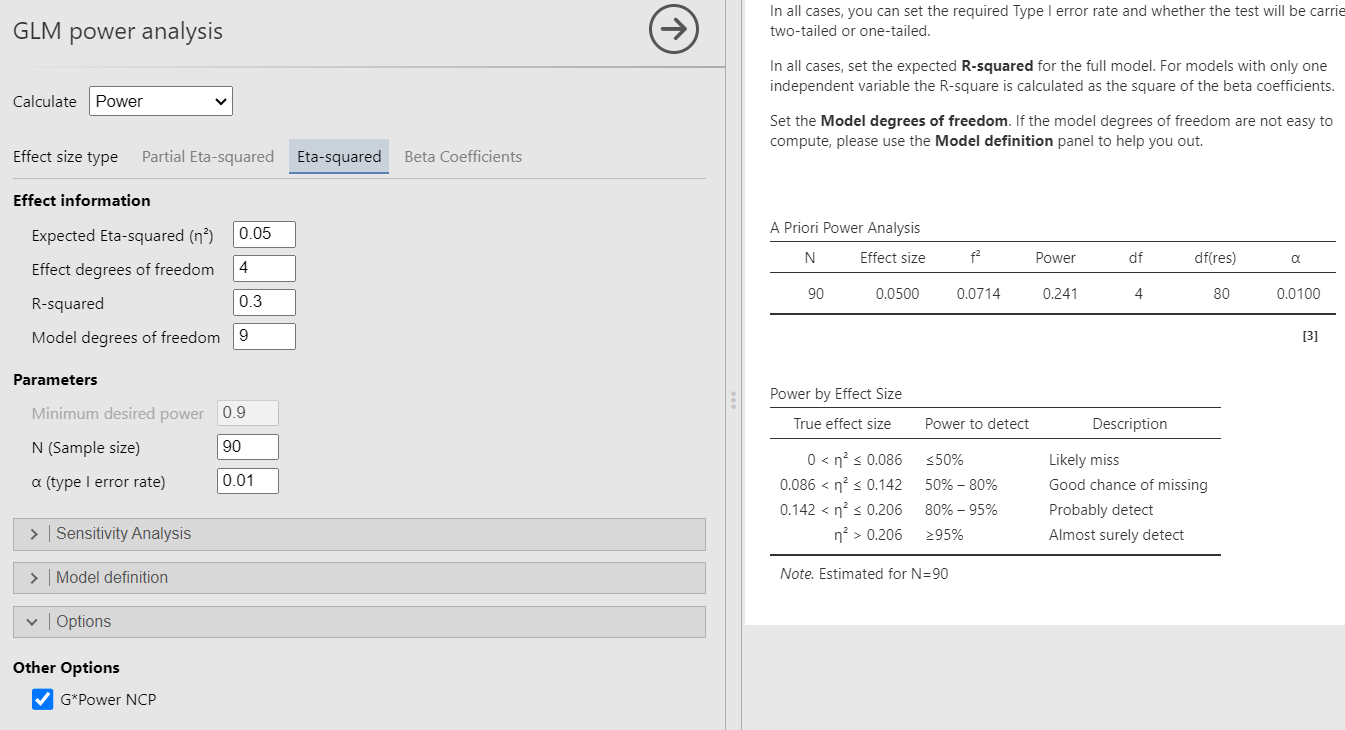
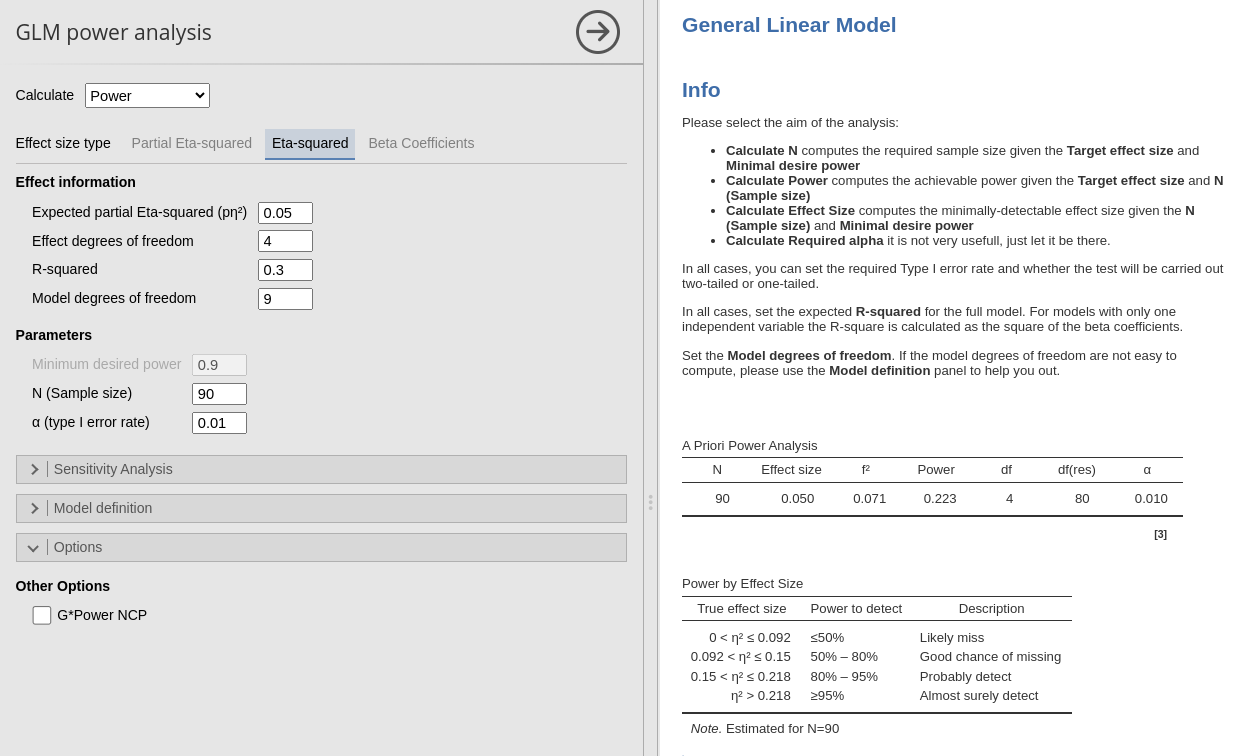
updates

diff --git a/docs/rosetta_glm_n.html b/docs/rosetta_glm_n.html
@@ -376,20 +376,23 @@ package</a> and <a
 href="https://www.psychologie.hhu.de/arbeitsgruppen/allgemeine-psychologie-und-arbeitspsychologie/gpower">G*Power</a>.</p>
 <p>We use a few examples from <a
 href="https://www.psychologie.hhu.de/arbeitsgruppen/allgemeine-psychologie-und-arbeitspsychologie/gpower">G*Power
-manual</a>, then we test some other design and analysis. In G<em>Power
+manual</a>, then we test some other design and analysis. In GPower
 manual the aim of the analysis is to find the post hoc power, here we
-look for the minimum sample size given the power obtained in the
-G</em>Power manual. So, this is not a tutorial on how to conduct a power
-analysis (the required power is sometimes a non-sense), is a testing
-exercise to evaluate the correctness of the results.</p>
+look for the minimum sample size given the power obtained in the GPower
+manual. So, this is not a tutorial on how to conduct a power analysis
+(the required power is sometimes a non-sense), is a testing exercise to
+evaluate the correctness of the results.</p>
 </div>
 <div id="multiple-regression" class="section level1">
 <h1>Multiple regression</h1>
 <p><i> Multiple Regression - omnibus (deviation of R 2 from zero), fixed
 model, p. 33 </i></p>
-<p>Here we estimate the post-hoc power for the F-test associated to the
-<span class="math inline">\(R^2\)</span> of a model with 5 predictors.
-Five predictors means that the model degrees of freedom are 5. Because
+<p>T he manual estimates the post-hoc power for the F-test associated to
+the <span class="math inline">\(R^2\)</span> of a model with 5
+predictors. The resulting power is <span
+class="math inline">\(1-\beta=.6735\)</span> based on Five predictors
+me95 cases. So, starting from the given power, we should obtain a
+required sample size of 95. The model degrees of freedom are 5. Because
 the test is on the whole model <span class="math inline">\(R^2\)</span>,
 also the the effect DF are 5. The <span
 class="math inline">\(R^2\)</span> is transformed into the <span
@@ -400,10 +403,10 @@ class="math inline">\(f^2\)</span> effect size with the simple formula
 <li>Expected <span class="math inline">\(R^2\)</span> = .10</li>
 <li><span class="math inline">\(f^2\)</span> = 0.1111</li>
 <li>power = .6735</li>
-<li>N = 95</li>
 <li>Effect DF = 5</li>
 <li>Model DF = 5</li>
 <li>Alpha = .05</li>
+<li>Correct results: N = 95</li>
 </ul>
 <div id="gpower" class="section level3">
 <h3>G*Power</h3>
@@ -414,9 +417,10 @@ class="math inline">\(f^2\)</span> effect size with the simple formula
 <p>In R, we can use the <code>pwr.f2.test</code> command, just plugging
 in the effect size <span class="math inline">\(f^2\)</span> and the
 effect DF <span class="math inline">\(u=5\)</span>. However, <span
-class="math inline">\(N\)</span> should be inserted as the residuals
-degrees of freedom, thus we have <span
-class="math inline">\(v=N-u-1=95-5-1=89\)</span></p>
+class="math inline">\(N\)</span> should be computed as the residuals
+degrees of freedom <span class="math inline">\(v\)</span> plus the <span
+class="math inline">\(u+1\)</span>, thus we have <span
+class="math inline">\(N=v+u+1\)</span></p>
 <pre class="r"><code>(res&lt;-pwr::pwr.f2.test(f2=.1111,u=5, power=.6735,sig.level=.05))</code></pre>
 <pre><code>## 
 ##      Multiple regression power calculation 
@@ -437,7 +441,7 @@ class="option">Partial Eta-Squared</span> or <span
 class="option">Eta-Squared</span>, because in the case of the <span
 class="math inline">\(R^2\)</span> the two effect size are identical.
 For simplicity, we use <span class="option">Partial
-Eta-Squared</span></p>
+Eta-Squared</span>.</p>
 <p><img src="rosetta/pics/glm.n.1.png" width="1368" /></p>
 <p>Had we used <span class="option">Eta-Squared</span>, we simply put
 the <span class="math inline">\(R^2\)</span> to test both in the effect
@@ -450,7 +454,7 @@ the same results.</p>
 <h1>Increase in <span class="math inline">\(R^2\)</span></h1>
 <p><i> F test: Multiple Regression - special (increase of R2), fixed
 model , p. 37 </i></p>
-<p>The first example examines a linear model (regression) with <span
+<p>The example examines a linear model (regression) with <span
 class="math inline">\(R_f^2=.30\)</span> with 9 predictors and compare
 it to a nested model with <span class="math inline">\(R_n^2=.25\)</span>
 with 5 predictors. Basically, the test is aimed at testing the variance
@@ -459,7 +463,9 @@ model. The variance explained by the 4 predictors is therefore <span
 class="math inline">\(R_f^2-R_n^2=.30-.25=.05\)</span>. This is also
 called <span class="math inline">\(\Delta R^2\)</span>, but more
 formally is a <span class="math inline">\(\eta^2\)</span> with 4 degrees
-of freedom evaluated in a model with 9 degrees of freedom.</p>
+of freedom evaluated in a model with 9 degrees of freedom. In the GPower
+manual the resulting power is .241296 based on a sample of 90 cases. So,
+we should obtain 90 as the required sample size.</p>
 <p>The <span class="math inline">\(\eta^2\)</span> is transformed into
 the <span class="math inline">\(f^2\)</span> effect size with the simple
 formula <span
@@ -474,6 +480,7 @@ class="math inline">\(f^2=(R_f^2-R_n^2)/(1-R_f^2)\)</span>.</p>
 <li>Effect DF = 4</li>
 <li>Model DF = 9</li>
 <li>Alpha = .01</li>
+<li>Correct results: N = 90</li>
 </ul>
 <div id="gpower-1" class="section level3">
 <h3>G*Power</h3>
@@ -529,7 +536,7 @@ have <span class="math inline">\(DF=2*2=4\)</span> degrees of freedom,
 and the whole model will have <span
 class="math inline">\(DF=35\)</span>, the number of groups minus one.
 Here are the parameters. The resulting sample size should be <span
-class="math inline">\(N = 90\)</span>.</p>
+class="math inline">\(N = 108\)</span>.</p>
 <ul>
 <li>Aim = Sample Size</li>
 <li><span class="math inline">\(p\eta^2\)</span> = 0.05665751</li>
@@ -538,38 +545,33 @@ class="math inline">\(N = 90\)</span>.</p>
 <li>Model DF = 35</li>
 <li>Power = .475627</li>
 <li>Alpha = .01</li>
+<li>Correct results: N = 108</li>
 </ul>
 <div id="gpower-2" class="section level3">
 <h3>G*Power</h3>
-<p>First notice that for this problem, G<em>Power offers <em>F test:
-Fixed effects ANOVA</em> routine, which requires an <span
+<p>First notice that for this problem, GPower offers <em>F test: Fixed
+effects ANOVA</em> routine, which requires an <span
 class="math inline">\(f\)</span> as the effect size . <span
 class="math inline">\(f\)</span> is simply the square root of <span
 class="math inline">\(f^2\)</span> so it can be computed from the
 partial Eta-squared as <span
-class="math inline">\(f=\sqrt{p\eta^2/(1-p\eta^2)}\)</span> . Based on
-the G</em>Power example, the resulting sample size should be N=108.</p>
+class="math inline">\(f=\sqrt{p\eta^2/(1-p\eta^2)}\)</span> .</p>
 <p>Plugging in the parameters we obtain:</p>
 <p><img src="rosetta/pics/gpower.n.glm.3.png" width="680" /></p>
 </div>
 <div id="r-2" class="section level3">
 <h3>R</h3>
-<p>As we have seen before, <code>pwr.f2.test</code> command will
-underestimate the power due to the fact that the non centrality
-parameter is smaller than the one used in G*Power. Nonetheless, we can
-get an estimation of the power increasing the effect size <span
-class="math inline">\(f^2\)</span> such as to match the correct NCP is
-<span class="math inline">\(\lambda=Nf^2\)</span>. The effect DF <span
-class="math inline">\(u=4\)</span> and the model DF are <span
+<p>As we have seen in <a href="rosetta_glm_posthoc.html">GLM: posthoc
+power</a>, <code>pwr.f2.test</code> command will underestimate the power
+due to the fact that the non centrality parameter is smaller than the
+one used in G*Power. Nonetheless, we can get an approximated estimation
+of the sample size by computing the N employing the whole model DF <span
 class="math inline">\(m=35\)</span>, yielding <span
-class="math inline">\(v=N-m-1=108-35-1=72\)</span></p>
+class="math inline">\(v=N+m+1\)</span></p>
 <pre class="r"><code>f&lt;-0.2450722
 u&lt;-4
 m&lt;-35
 power=.475627
-#N=108
-#v&lt;-N-m-1
-#f2&lt;-f^2*N/(u+v+1)
 (res&lt;-pwr::pwr.f2.test(f2=f2,u=4, power=power,sig.level=.05))</code></pre>
 <pre><code>## 
 ##      Multiple regression power calculation 
@@ -582,12 +584,13 @@ power=.475627
 <pre class="r"><code>N&lt;-round(res$v+m+1)
 N</code></pre>
 <pre><code>## [1] 121</code></pre>
-<p>We obtained the same results as in G*Power</p>
+<p>As expected, the required sample size obtained in
+<code>pwr.f2.test</code> is larger than the one obtained in GPower.</p>
 </div>
 <div id="pamlj-2" class="section level3">
 <h3>PAMLj</h3>
 <p>We plug in the partial Eta-squared and the required parameters, and
-we obtain the same results as before.</p>
+we obtain N=108, as in GPower.</p>
 <p><img src="rosetta/pics/glm.n.3.png" width="1346" /></p>
 <h1>
 Comments?

diff --git a/docs/rosetta_glm_posthoc.html b/docs/rosetta_glm_posthoc.html
@@ -499,17 +499,34 @@ F-distribution <em>non centrality parameter $“</em>. G</em>Power uses
 <span class="math inline">\(\lambda=f^2 \cdot N\)</span>, whereas
 <code>pwr:pwr.f2.test()</code> uses <span
 class="math inline">\(\lambda=f^2 \cdot (u+v+1)\)</span>. <span
-class="modulename">PAMLj</span> allows to choose which one to use.</p>
+class="modulename">PAMLj</span> allows to choose which one to use. To
+obtain the correct power one should adjust the effect size such that the
+non-centrality parameter will be correct. One can do this:</p>
+<pre class="r"><code>N&lt;-90
+u&lt;-4
+v=80
+f2=.05/(1-.30)
+f2adj&lt;-f2*N/(v+u+1)
+pwr::pwr.f2.test(f2=f2adj,u=u, v=v,sig.level=.01)</code></pre>
+<pre><code>## 
+##      Multiple regression power calculation 
+## 
+##               u = 4
+##               v = 80
+##              f2 = 0.07563025
+##       sig.level = 0.01
+##           power = 0.2412965</code></pre>
+<p>The power is now identical to the one estimated in GPower.</p>
 </div>
 <div id="pamlj-1" class="section level3">
 <h3>PAMLj</h3>
-<p>By default, <span class="modulename">PAMLj</span> employs the
-<code>pwr.f2.test</code> <em>non centrality parameter</em>, yielding the
-same results of the R module.</p>
-<p><img src="rosetta/pics/glm.2.1.png" width="1383" /></p>
-<p>BY selecting the option <span class="option">G<em>Power NCP</span>,
-we obtain the same results as in G</em>Power.</p>
-<p><img src="rosetta/pics/glm.2.2.png" width="1345" /></p>
+<p>By default, <span class="modulename">PAMLj</span> employs the GPower
+<em>non centrality parameter</em>, yielding the same results as
+GPower.</p>
+<p><img src="rosetta/pics/glm.2.1.png" width="1220" /></p>
+<p>BY de-selecting the option <span class="option">G*Power NCP</span>,
+we obtain the same results as in R without adjustment.</p>
+<p><img src="rosetta/pics/glm.2.2.png" width="1253" /></p>
 </div>
 </div>
 <div id="anova" class="section level1">
@@ -526,8 +543,8 @@ freedom, and <span class="math inline">\(C\)</span> having 3 DF. The
 researcher is interested in the power of the test associated with the
 interaction <span class="math inline">\(A*B\)</span>, with a partial
 Eta-squared <span class="math inline">\(p\eta^2=0.05665751\)</span>
-(here the value is slightly different than in G*Power manual, but this
-value honour the f value used in the manual). The interaction will have
+(here the value is slightly different than in GPower manual, but this
+value honors the f value used in the manual). The interaction will have
 <span class="math inline">\(DF=2*2=4\)</span> degrees of freedom, and
 the whole model will have <span class="math inline">\(DF=35\)</span>,
 the number of groups minus one. Here are the parameters.</p>
@@ -557,10 +574,10 @@ class="math inline">\(f=\sqrt{p\eta^2/(1-p\eta^2)}\)</span> .</p>
 <p>As we have seen before, <code>pwr.f2.test</code> command will
 underestimate the power due to the fact that the non centrality
 parameter is smaller than the one used in G*Power. Nonetheless, we can
-get an estimation of the power increasing the effect size <span
-class="math inline">\(f^2\)</span> such as to match the correct NCP is
-<span class="math inline">\(\lambda=Nf^2\)</span>. The effect DF <span
-class="math inline">\(u=4\)</span> and the model DF are <span
+get an estimation of the power by adjusting the effect size <span
+class="math inline">\(f^2\)</span> such as to match the correct NCP will
+be <span class="math inline">\(\lambda=Nf^2\)</span>. The effect DF
+<span class="math inline">\(u=4\)</span> and the model DF are <span
 class="math inline">\(m=35\)</span>, yielding <span
 class="math inline">\(v=N-m-1=108-35-1=72\)</span></p>
 <pre class="r"><code>f&lt;-0.2450722
